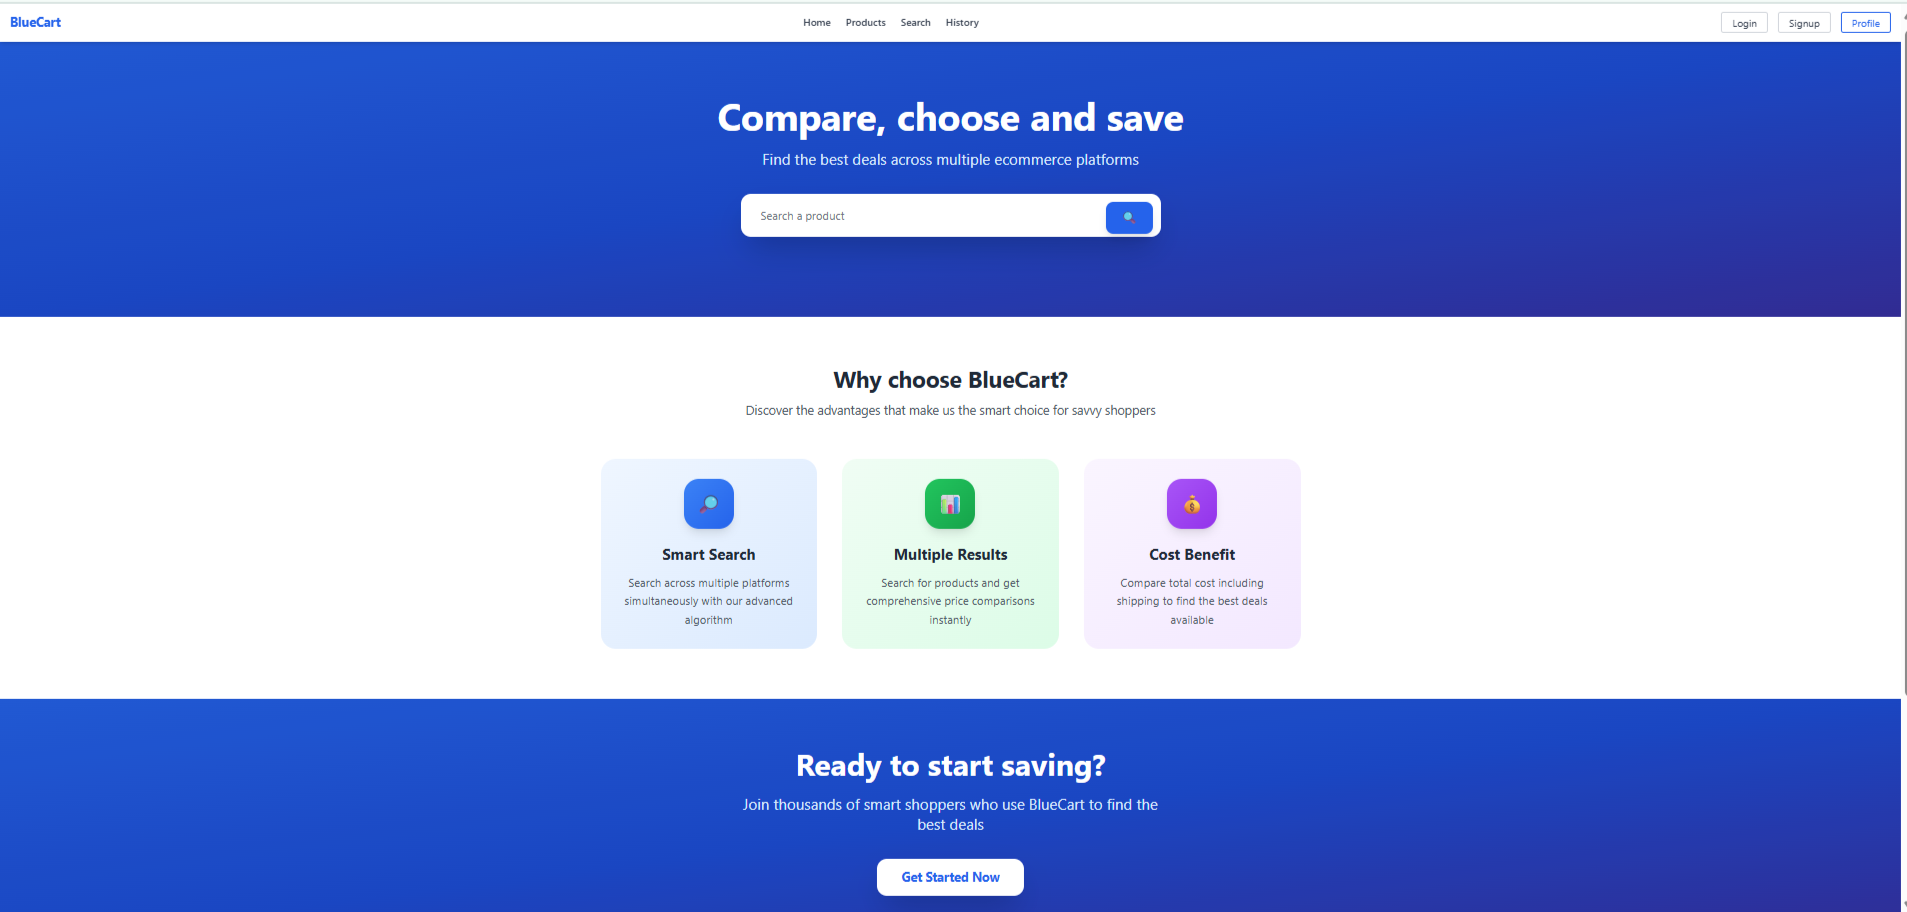
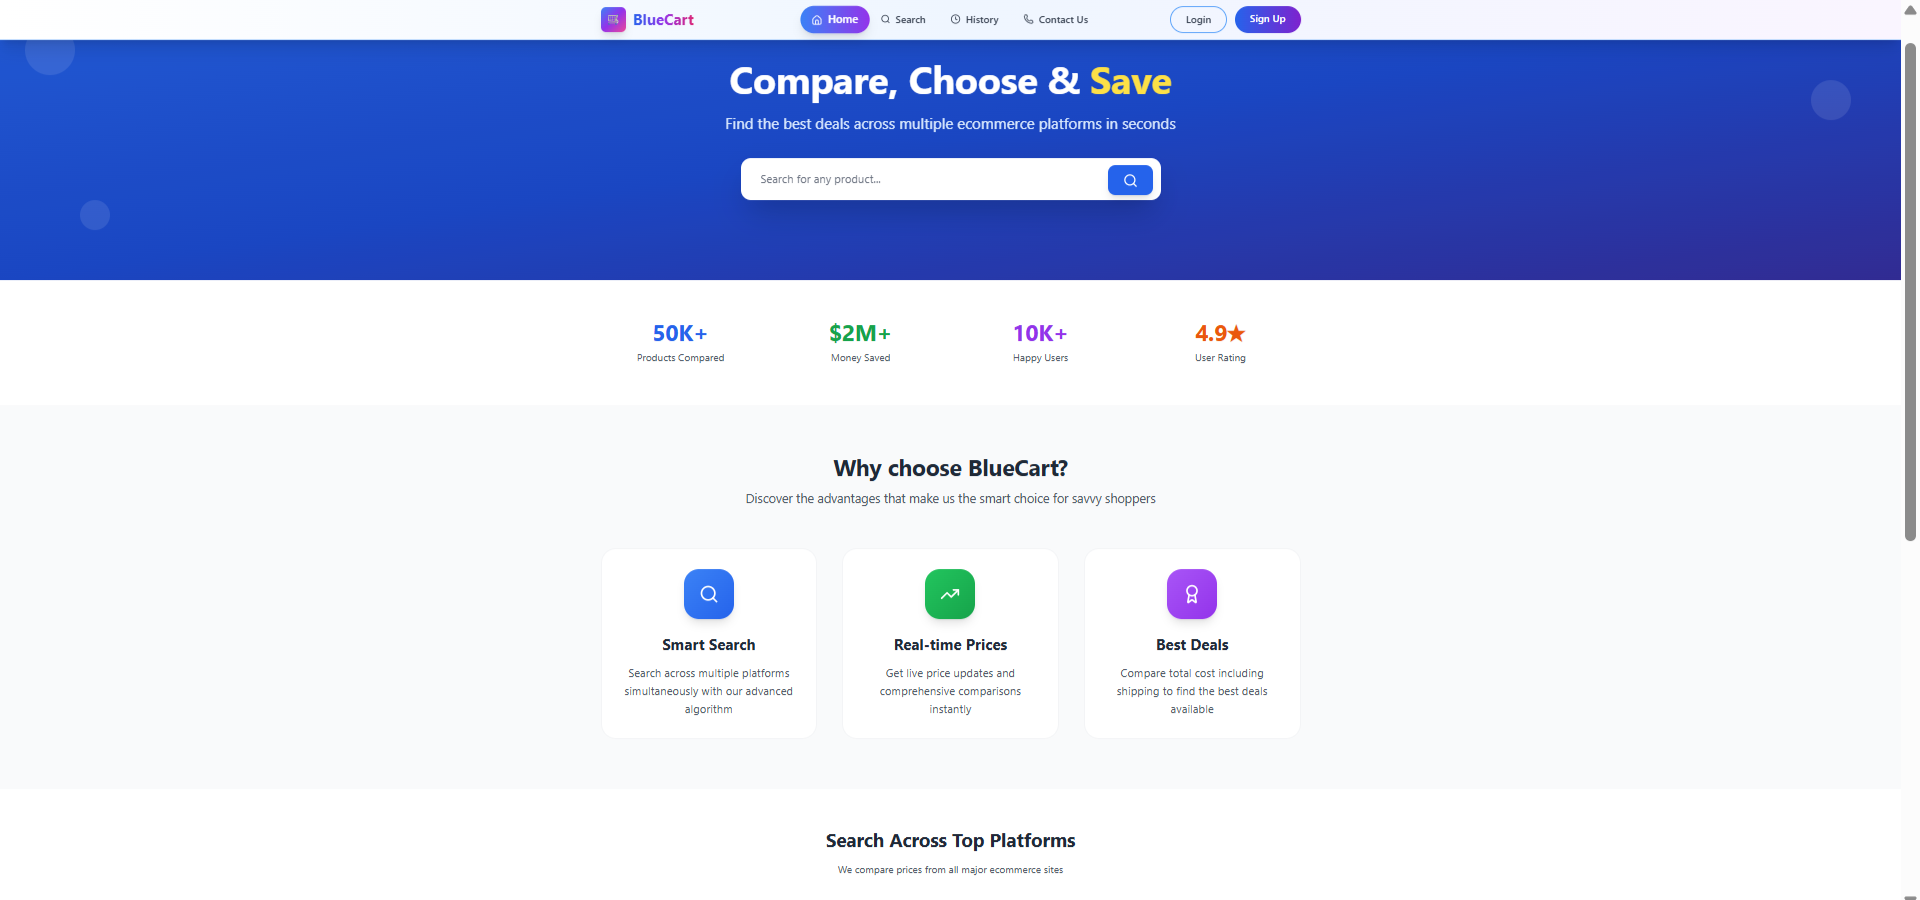
Add screenshots and update README

diff --git a/README.md b/README.md
@@ -2,6 +2,10 @@
 
 **BlueCart Marketplace** is a full-stack web application that allows users to search, compare, and analyze product prices across multiple e-commerce platforms (Amazon, eBay, Alibaba, etc.). The app is built with **React + Redux Toolkit** on the frontend and **FastAPI** on the backend, with a **PostgreSQL** database.
 
+### 🚀 Live Demo 
+
+**Try the app live here**: [BlueCart Marketplace](https://bluecart-marketplace-frontend.onrender.com)
+
 ---
 
 ## 🚀 Features
@@ -14,7 +18,28 @@
 - ⭐ Review system for products  
 - 🌐 Live crawling & API integration (Amazon, Alibaba, etc.)
 
+---
+
+## 🏠 Homepage
+A clean, modern landing page showcasing featured products and categories. Users can login or signup.
+
 ![Homepage Screenshot](./client/assets/homepage.PNG)
+
+---
+
+## 🔍 Search Page
+
+Users can search for products across multiple marketplaces. Results can be filtered by price, platform (e.g., Amazon, eBay), and category.
+
+![Searchpage Screenshot](./client/assets/search.PNG)
+
+---
+
+## 📄 Product Details
+
+View detailed product information including name, image, current price, rating and customer reviews. Ideal for making smart buying decisions.
+
+![Productpage Screenshot](./client/assets/product.PNG)
 
 ---
 
